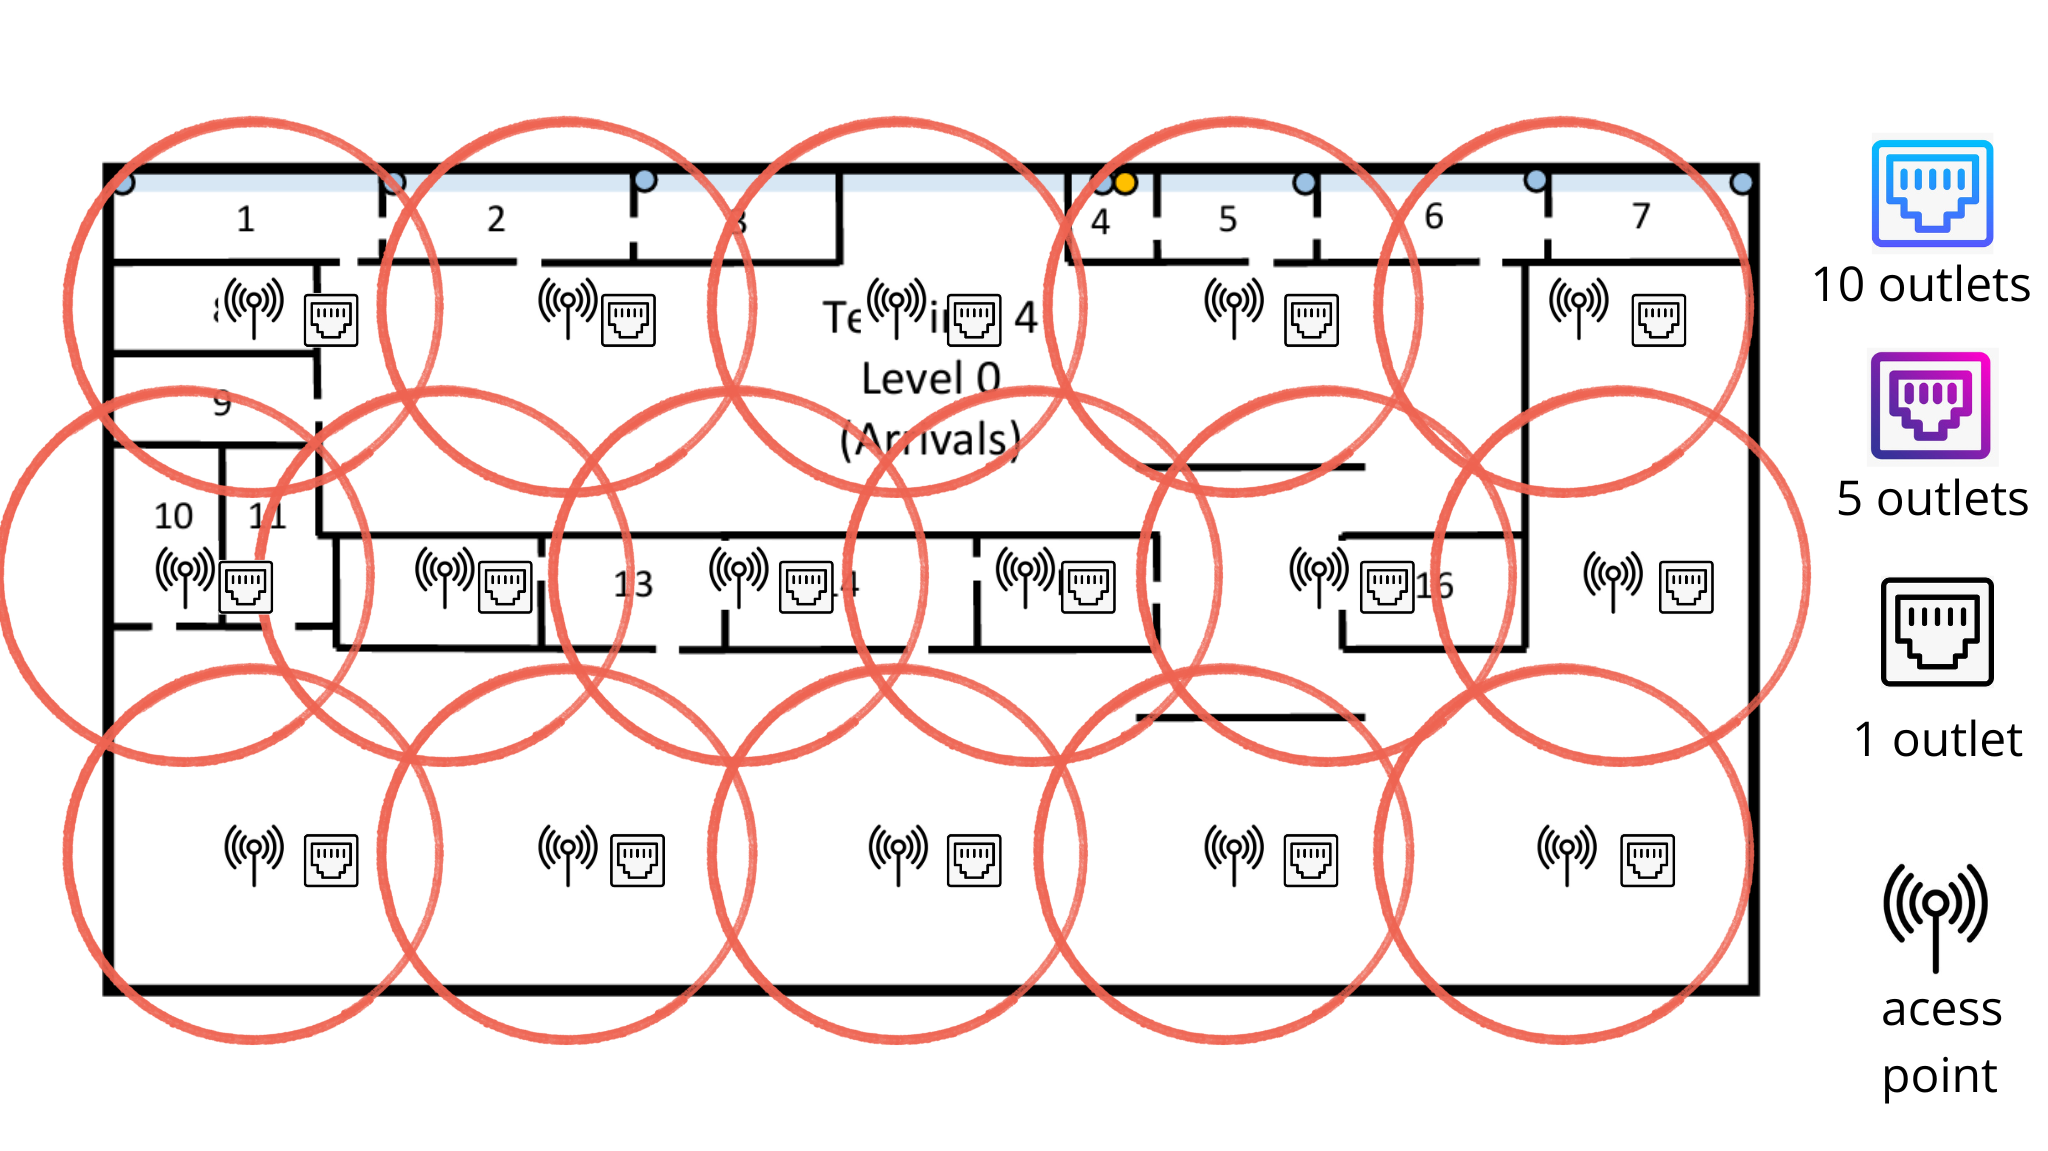
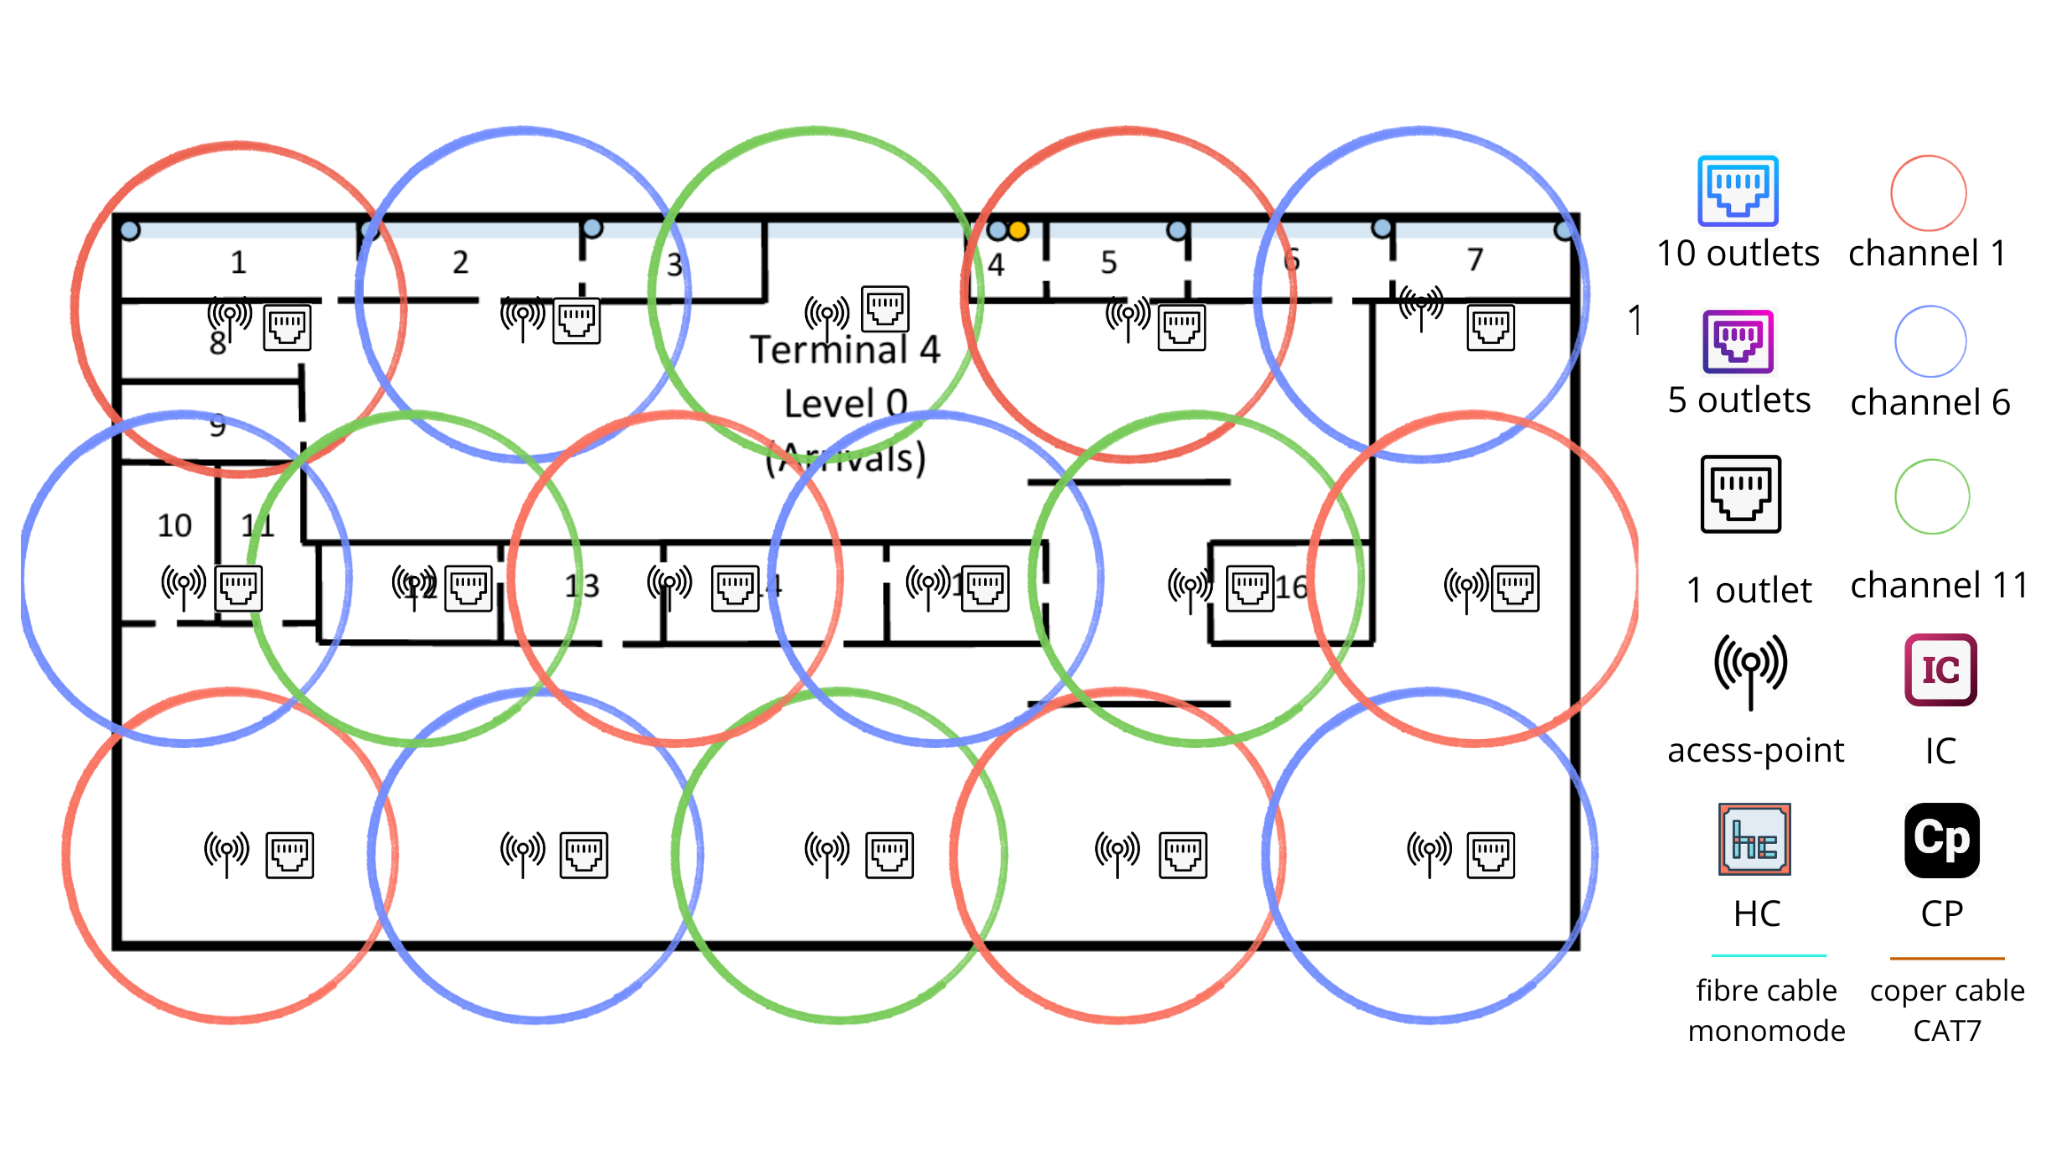
Update T1.4:wireless aps update

Changed region(s): [[0.0, 0.0912, 1.0, 0.9427]]

diff --git a/doc/sprint1/1240895/README.md b/doc/sprint1/1240895/README.md
@@ -1,6 +1,7 @@
 # Sprint 1 - Terminal 4 - 1240895
 
 ## Informações Gerais
+
 O edifício do **Terminal 4** tem dimensões aproximadas de 200m x 100m. O presente projeto abrange o **Piso 0 (Chegadas)** e o **Piso 2 (Partidas)**.
 
 Ambos os pisos deverão garantir cobertura de rede local sem fios (**Wireless LAN – Wi-Fi**).
@@ -10,30 +11,36 @@ Ambos os pisos deverão garantir cobertura de rede local sem fios (**Wireless LA
 ## 1. Requisitos Técnicos
 
 ### Level 0 - Arrivals
+
 - Existe uma única conduta vertical de cabos localizada na **Sala 4**, que estabelece ligação direta à passagem subterrânea exterior.
 - A distância vertical entre este piso e o ponto de ligação à passagem subterrânea exterior é de **3 metros**.
 - O teto do piso encontra-se a **5 metros do chão**, com um **teto falso a 4 metros**. O espaço técnico acima do teto falso é utilizado para caminhos de cabos e instalação de Access Points.
 
 #### Tomadas de Rede
+
 - As salas **1, 2, 3, 5, 6, 7, 12, 13, 14, 15 e 16** deverão possuir o número padrão de tomadas de rede.
 - As salas **4, 8, 9, 10 e 11** não necessitam de tomadas de rede.
 - A **Sala 4** é a única adequada para a instalação de equipamentos de infraestrutura de rede (IC/HC).
 
 ### Level 2 - Departures
+
 - A distância vertical entre este piso e o ponto de ligação à passagem subterrânea exterior (via Sala 4 do Piso 0) é de **15 metros**.
 - O teto do piso encontra-se a **5 metros do chão**, com um **teto falso a 4 metros**.
 
 #### Tomadas de Rede
+
 - As salas **1, 2, 4, 5, 7, 9, 12, 13, 14, 15, 16, 17, 18, 19, 20 e 21** deverão possuir o número padrão de tomadas de rede.
 - As salas **3, 6, 8, 10 e 11** não necessitam de tomadas de rede.
 - A **Sala 3** é adequada para a instalação de equipamentos de infraestrutura de rede (HC).
 
 #### Tomadas ao Longo das Paredes Exteriores
+
 - Deverá ser instalada **uma tomada de rede (ISO 8877) a cada 5 metros** ao longo da parede exterior direita e da parede exterior inferior.
 
 ---
 
 ## 2. Dimensionamento das Tomadas de Rede
+
 O número de tomadas foi calculado considerando a regra de **2 tomadas por cada 10 m²** (arredondado por excesso), utilizando a escala de $3,1 \text{ cm} = 50 \text{ m}$ (onde $1 \text{ cm} \approx 16,13 \text{ m}$).
 
 Fórmula utilizada: Outlets = $\lceil \frac{\text{Área (m²)}}{10} \times 2 \rceil$
@@ -46,24 +53,25 @@ Fórmula utilizada: Outlets = $\lceil \frac{\text{Área (m²)}}{10} \times 2 \rc
 
 ![Medidas do Level 0 - Arrivals](level0_arrivals/medidas_level0.png)
 
-| Sala | Medidas (cm) | Dimensões Reais (m) | Área (m²) | Outlets | Notas |
-|------|--------------|----------------------|-----------|---------|-------|
-| 1    | 2,0 x 0,7    | 32,26 x 11,29        | 364,21    | 73      | |
-| 2    | 1,9 x 0,7    | 30,65 x 11,29        | 346,03    | 70      | |
-| 3    | 1,5 x 0,7    | 24,19 x 11,29        | 273,10    | 55      | |
-| 4    | 0,65 x 0,7   | 10,48 x 11,29        | 118,32    | 0       | Infraestrutura (IC/HC) |
-| 5    | 1,2 x 0,7    | 19,35 x 11,29        | 218,46    | 44      | |
-| 6    | 1,7 x 0,7    | 27,42 x 11,29        | 309,57    | 62      | |
-| 7    | 1,55 x 0,7   | 25,00 x 11,29        | 282,25    | 57      | |
-| 8    | 1,5 x 0,7    | 24,19 x 11,29        | 273,10    | 0       | Sem tomadas |
-| 9    | 1,5 x 0,7    | 24,19 x 11,29        | 273,10    | 0       | Sem tomadas |
-| 10   | 1,4 x 0,8    | 22,58 x 12,90        | 291,28    | 0       | Sem tomadas |
-| 11   | (0,8x0,7)+(0,7x0,7) | 12,90x11,29 + 11,29x11,29 | 273,10 | 0 | Sem tomadas |
-| 12   | 1,5 x 0,9    | 24,19 x 14,52        | 351,24    | 71      | |
-| 13   | 1,4 x 0,9    | 22,58 x 14,52        | 327,86    | 66      | |
-| 14   | 1,9 x 0,9    | 30,65 x 14,52        | 445,04    | 90      | |
-| 15   | 1,3 x 0,9    | 20,97 x 14,52        | 304,48    | 61      | |
-| 16   | 1,35 x 0,9   | 21,78 x 14,52        | 316,25    | 64      | |
+
+| Sala | Medidas (cm)        | Dimensões Reais (m)      | Área (m²) | Outlets | Notas                  |
+| ---- | ------------------- | ------------------------- | ----------- | ------- | ---------------------- |
+| 1    | 2,0 x 0,7           | 32,26 x 11,29             | 364,21      | 73      |                        |
+| 2    | 1,9 x 0,7           | 30,65 x 11,29             | 346,03      | 70      |                        |
+| 3    | 1,5 x 0,7           | 24,19 x 11,29             | 273,10      | 55      |                        |
+| 4    | 0,65 x 0,7          | 10,48 x 11,29             | 118,32      | 0       | Infraestrutura (IC/HC) |
+| 5    | 1,2 x 0,7           | 19,35 x 11,29             | 218,46      | 44      |                        |
+| 6    | 1,7 x 0,7           | 27,42 x 11,29             | 309,57      | 62      |                        |
+| 7    | 1,55 x 0,7          | 25,00 x 11,29             | 282,25      | 57      |                        |
+| 8    | 1,5 x 0,7           | 24,19 x 11,29             | 273,10      | 0       | Sem tomadas            |
+| 9    | 1,5 x 0,7           | 24,19 x 11,29             | 273,10      | 0       | Sem tomadas            |
+| 10   | 1,4 x 0,8           | 22,58 x 12,90             | 291,28      | 0       | Sem tomadas            |
+| 11   | (0,8x0,7)+(0,7x0,7) | 12,90x11,29 + 11,29x11,29 | 273,10      | 0       | Sem tomadas            |
+| 12   | 1,5 x 0,9           | 24,19 x 14,52             | 351,24      | 71      |                        |
+| 13   | 1,4 x 0,9           | 22,58 x 14,52             | 327,86      | 66      |                        |
+| 14   | 1,9 x 0,9           | 30,65 x 14,52             | 445,04      | 90      |                        |
+| 15   | 1,3 x 0,9           | 20,97 x 14,52             | 304,48      | 61      |                        |
+| 16   | 1,35 x 0,9          | 21,78 x 14,52             | 316,25      | 64      |                        |
 
 **Total Outlets Piso 0 (Salas): 713**
 
@@ -72,30 +80,29 @@ Fórmula utilizada: Outlets = $\lceil \frac{\text{Área (m²)}}{10} \times 2 \rc
 ![Medidas do Level 2 - Departures](level2_departures/medidas_level2.png)
 
 
-| Sala | Medidas (cm) | Dimensões Reais (m)       | Área (m²) | Outlets | Notas |
-|------|--------------|---------------------------|-----------|---------|-------|
-| 1    | 2,0 x 0,7    | 32,26 x 11,29             | 364,21    | 73      | |
-| 2    | 1,9 x 0,7    | 30,65 x 11,29             | 346,03    | 70      | |
-| 3    | 0,6 x 0,7    | 9,68 x 11,29              | 109,21    | 0       | Infraestrutura (HC) |
-| 4    | 1,2 x 0,7    | 19,35 x 11,29             | 218,46    | 44      | |
-| 5    | 1,5 x 0,7    | 24,19 x 11,29             | 273,10    | 55      | |
-| 6    | 1,5 x 0,6    | 24,19 x 9,68              | 234,08    | 0       | Sem tomadas |
-| 7    | 0,7 x 1,0    | 11,29 x 16,13             | 182,11    | 37      | |
-| 8    | 1,5 x 0,6    | 24,19 x 9,68              | 234,08    | 0       | Sem tomadas |
-| 9    | 0,7 x 1,0    | 11,29 x 16,13             | 182,11    | 37      | |
-| 10   | 0,8 x 1,35   | 12,90 x 22.58             | 281,00    | 0       | Sem tomadas |
-| 11   | (0,8x0,7)+(0,7x0,7) | 12,90x11,29 + 11,29x11,29 | 273,10 | 0 | Sem tomadas |
-| 12   | 1,5 x 0,5    | 24,19 x 8,06              | 195,05    | 40      | |
-| 13   | 1,0 x 0,5    | 16,13 x 8,06              | 130,05    | 27      | |
-| 14   | 1,2 x 0,5    | 19,35 x 8,06              | 156,05    | 32      | |
-| 15   | 1,2 x 0,5    | 19,35 x 8,06              | 156,05    | 32      | |
-| 16   | 1,3 x 0,5    | 20,97 x 8,06              | 169,05    | 34      | |
-| 17   | 1,5 x 0,7    | 24,19 x 11,29             | 273,10    | 55      | |
-| 18   | 1,4 x 0,7    | 22,58 x 11,29             | 254,90    | 51      | |
-| 19   | 1,9 x 0,7    | 30,65 x 11,29             | 346,03    | 70      | |
-| 20   | 1,35 x 0,7   | 21,77 x 11,29             | 245,80    | 50      | |
-| 21   | 1,35 x 0,7   | 21,77 x 11,29             | 245,80    | 50      | |
-
+| Sala | Medidas (cm)        | Dimensões Reais (m)      | Área (m²) | Outlets | Notas               |
+| ---- | ------------------- | ------------------------- | ----------- | ------- | ------------------- |
+| 1    | 2,0 x 0,7           | 32,26 x 11,29             | 364,21      | 73      |                     |
+| 2    | 1,9 x 0,7           | 30,65 x 11,29             | 346,03      | 70      |                     |
+| 3    | 0,6 x 0,7           | 9,68 x 11,29              | 109,21      | 0       | Infraestrutura (HC) |
+| 4    | 1,2 x 0,7           | 19,35 x 11,29             | 218,46      | 44      |                     |
+| 5    | 1,5 x 0,7           | 24,19 x 11,29             | 273,10      | 55      |                     |
+| 6    | 1,5 x 0,6           | 24,19 x 9,68              | 234,08      | 0       | Sem tomadas         |
+| 7    | 0,7 x 1,0           | 11,29 x 16,13             | 182,11      | 37      |                     |
+| 8    | 1,5 x 0,6           | 24,19 x 9,68              | 234,08      | 0       | Sem tomadas         |
+| 9    | 0,7 x 1,0           | 11,29 x 16,13             | 182,11      | 37      |                     |
+| 10   | 0,8 x 1,35          | 12,90 x 22.58             | 281,00      | 0       | Sem tomadas         |
+| 11   | (0,8x0,7)+(0,7x0,7) | 12,90x11,29 + 11,29x11,29 | 273,10      | 0       | Sem tomadas         |
+| 12   | 1,5 x 0,5           | 24,19 x 8,06              | 195,05      | 40      |                     |
+| 13   | 1,0 x 0,5           | 16,13 x 8,06              | 130,05      | 27      |                     |
+| 14   | 1,2 x 0,5           | 19,35 x 8,06              | 156,05      | 32      |                     |
+| 15   | 1,2 x 0,5           | 19,35 x 8,06              | 156,05      | 32      |                     |
+| 16   | 1,3 x 0,5           | 20,97 x 8,06              | 169,05      | 34      |                     |
+| 17   | 1,5 x 0,7           | 24,19 x 11,29             | 273,10      | 55      |                     |
+| 18   | 1,4 x 0,7           | 22,58 x 11,29             | 254,90      | 51      |                     |
+| 19   | 1,9 x 0,7           | 30,65 x 11,29             | 346,03      | 70      |                     |
+| 20   | 1,35 x 0,7          | 21,77 x 11,29             | 245,80      | 50      |                     |
+| 21   | 1,35 x 0,7          | 21,77 x 11,29             | 245,80      | 50      |                     |
 
 **Total Outlets Piso 2 (Salas): 807**
 
@@ -114,19 +121,22 @@ Aplicando a regra de uma tomada a cada 5 metros:
 Outlets = $\left\lceil \frac{\text{Comprimento útil da parede}}{5} \right\rceil$
 
 ### Level 2 - Departures
+
 ![Medidas parede externa do Level 2 - Departures](level2_departures/paredeExterna_level2.png)
+
 - Parede inferior: 40 tomadas
 - Parede direita: 20 tomadas
 - Total paredes externas: 60 tomadas
 
-
 ## Posicionamento das tomadas de rede
+
 ### Level 0 - Arrivals
+
 ![Outlets do level 0 - Arrivals](level0_arrivals/level0_outlets.png)
 
 ### Level 2 - Departures
-![Outlets do level 2 - Departures](level2_departures/level2_outlets.png)
 
+![Outlets do level 2 - Departures](level2_departures/level2_outlets.png)
 
 ## 5. Pontos de Acesso Wireless (Wi-Fi)
 
@@ -149,7 +159,7 @@ A área total aproximada de cada piso é:
 
 Número mínimo de WAPs:
 N = Área do piso / Área de cobertura do WAP
-N = 20000 / 1963  
+N = 20000 / 1963
 N ≈ **10.19**
 
 Arredondando por excesso:
@@ -168,7 +178,7 @@ Na prática, diversos fatores reduzem a eficácia da cobertura:
 Para compensar estes fatores, foi aplicado um **fator de segurança de aproximadamente 40%**.
 
 Cálculo:
-N_real = 11 × 1.4  
+N_real = 11 × 1.4
 N_real ≈ **15.4**
 
 Arredondando por excesso:
@@ -177,14 +187,15 @@ N_real ≈ **16 WAPs por piso**
 ### Posicionamento no teto falso
 
 #### Level 1 - Arrivals
+
 ![Access Points do level 0 - Arrivals](level0_arrivals/level0_aps.png)
 
 **Nota**: Cada WAP requer uma **tomada de rede RJ45 (ISO 8877)** instalada no **teto falso**, localizado a 4 metros de altura.
 
 #### Level 4 - Departures
+
 ![Access Points do level 2 - Departures](level2_departures/level2_aps.png)
 
 **Nota**: Cada WAP requer uma **tomada de rede RJ45 (ISO 8877)** instalada no **teto falso**, localizado a 4 metros de altura.
-
 
 ---
